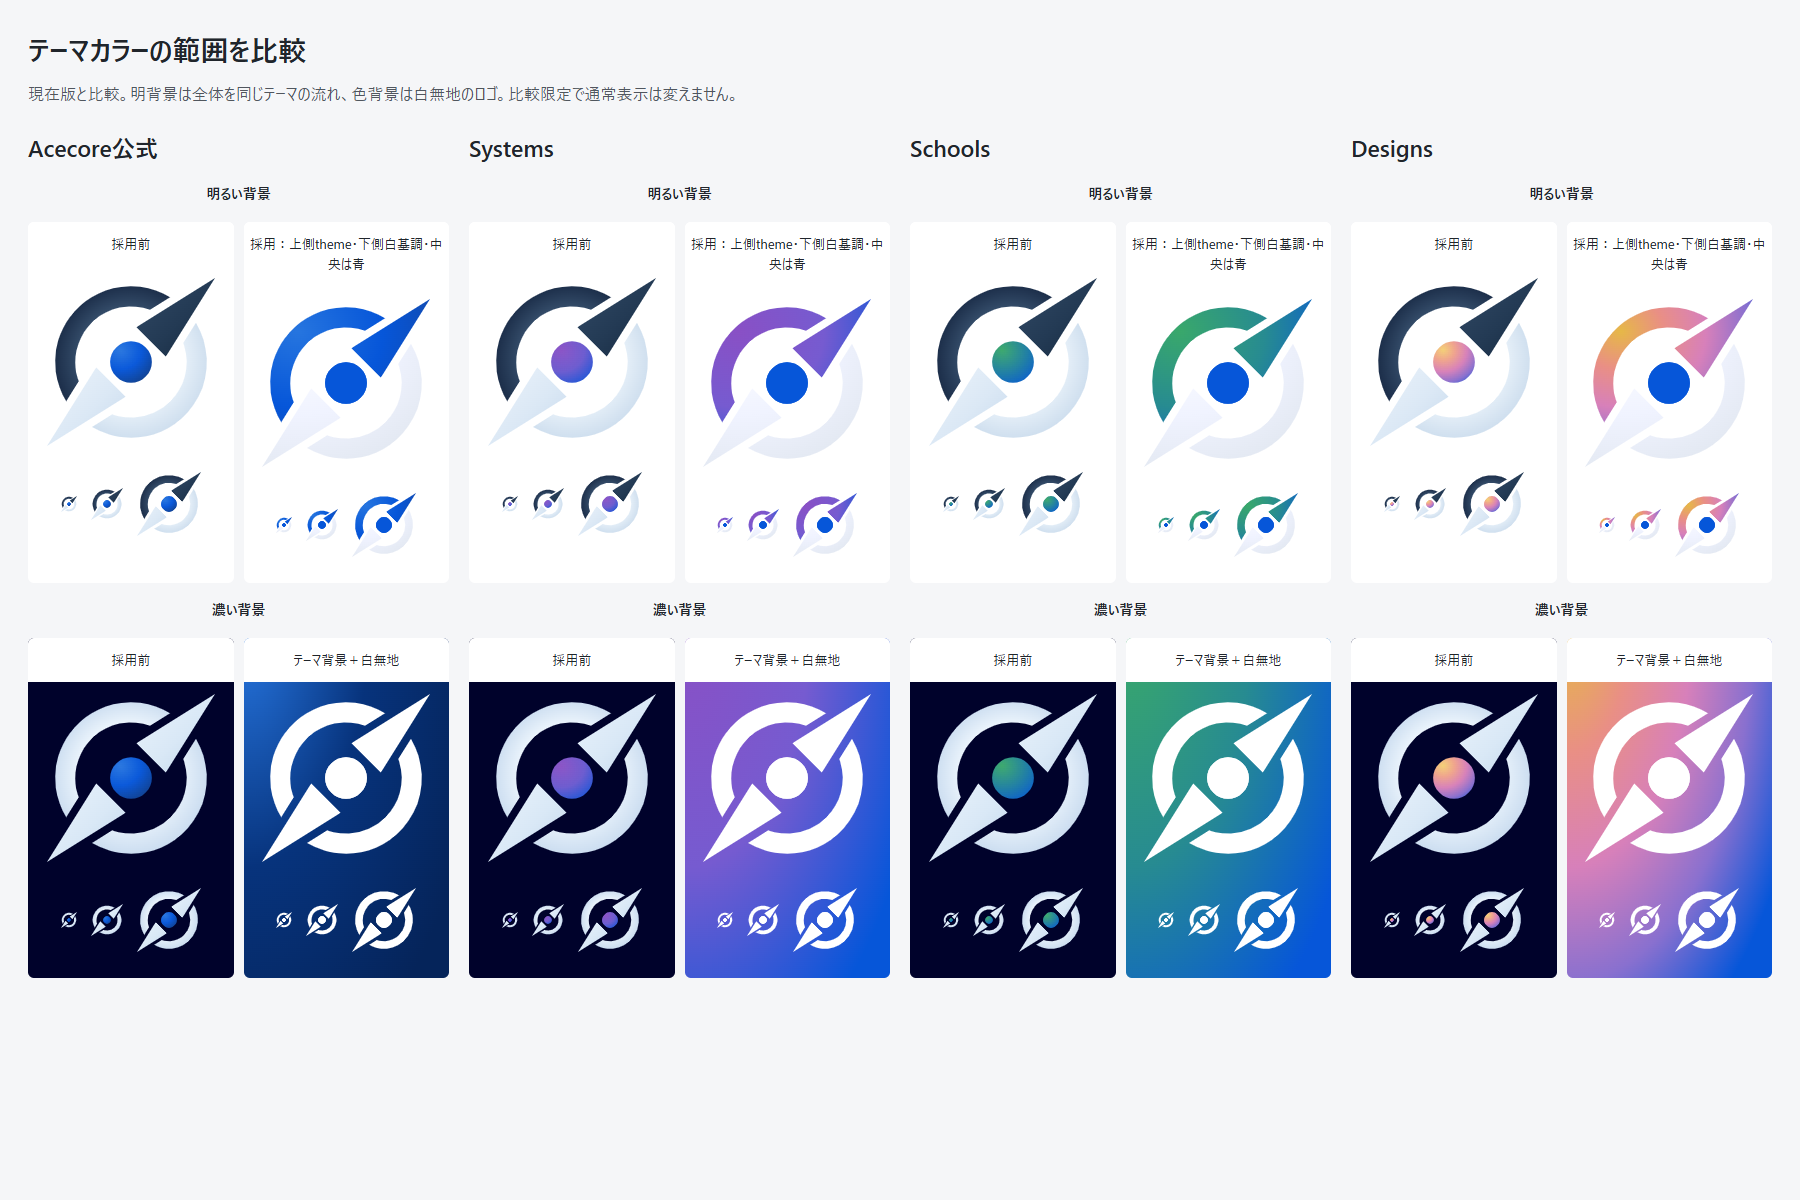
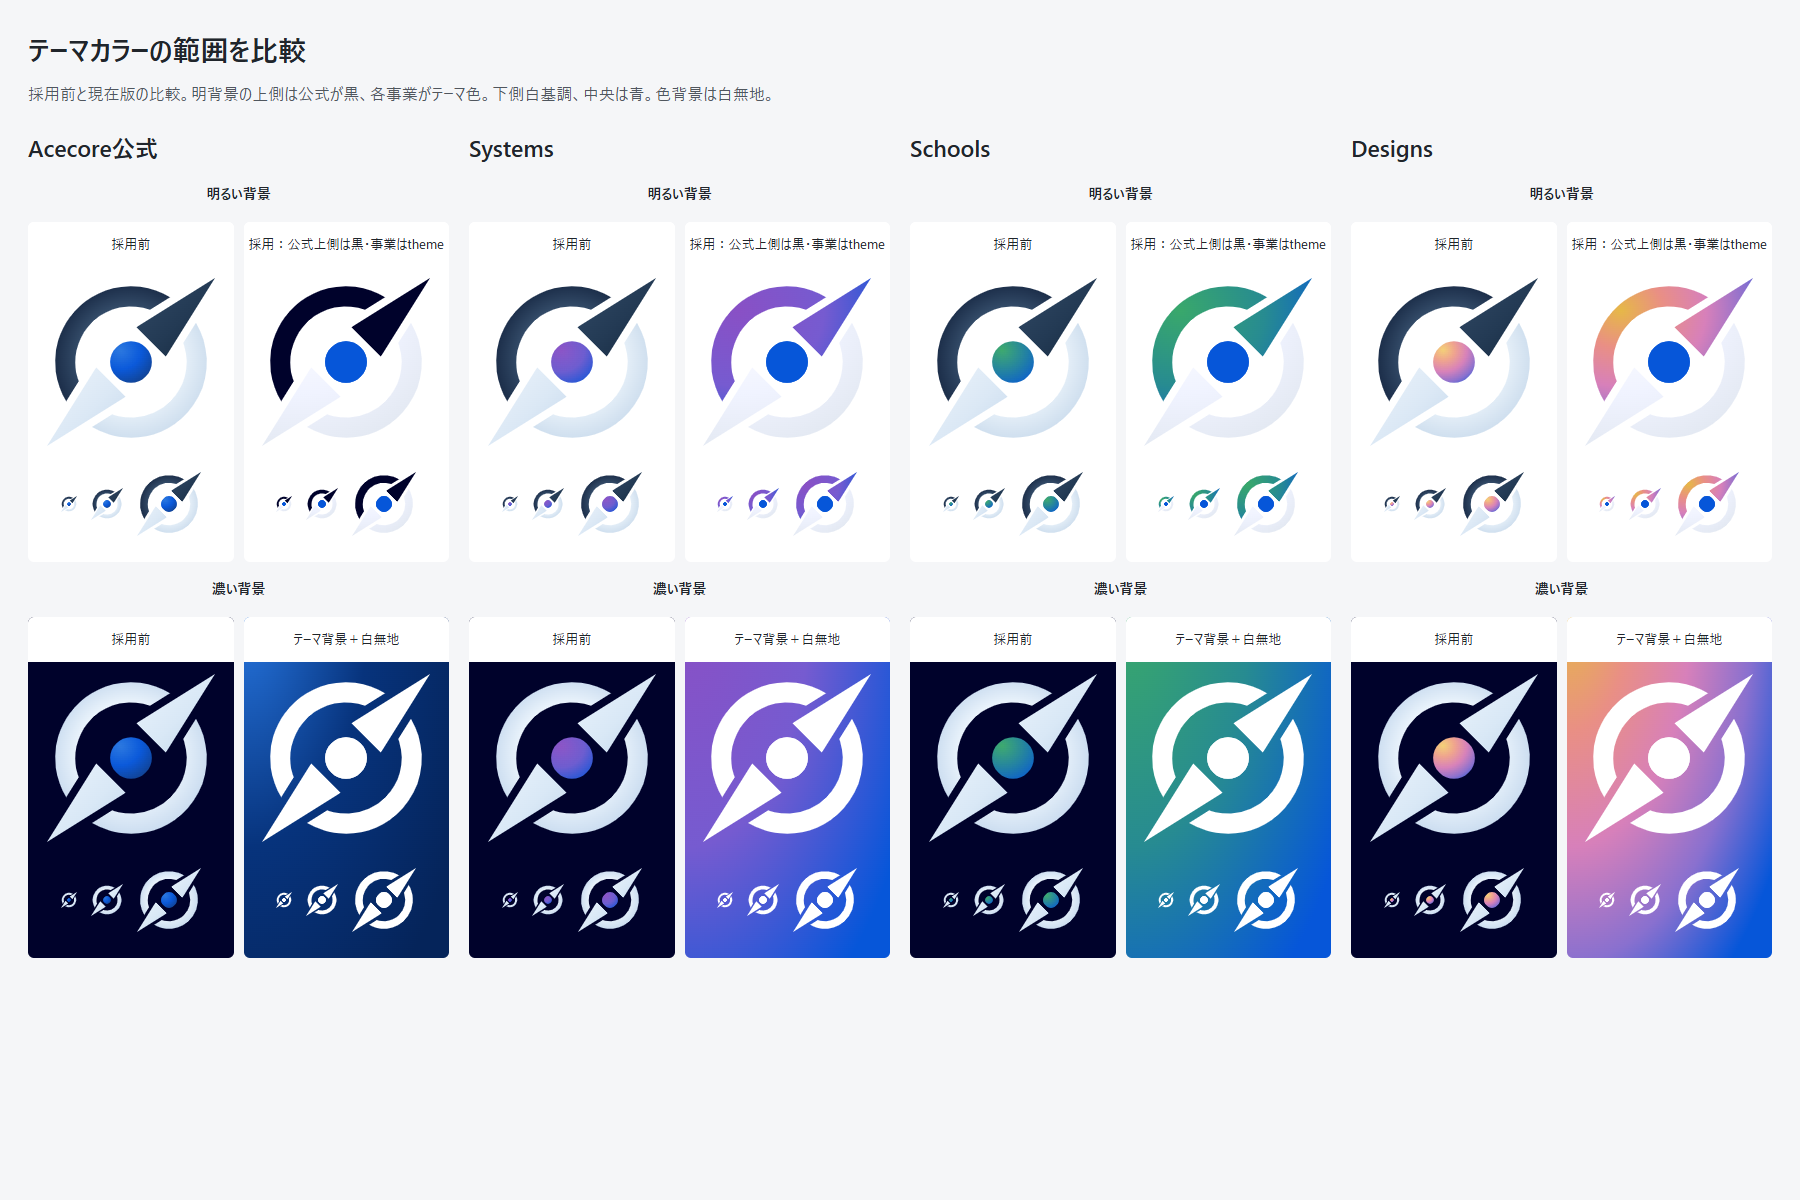
fix: 公式ロゴの上側の弧と矢印をブランド黒へ戻す

diff --git a/public/brand-preview.html b/public/brand-preview.html
@@ -735,10 +735,10 @@
       >
         <h2 id="theme-range-heading">採用したロゴと以前のロゴ</h2>
         <p>
-          サイト名を選ぶと、中央だけに色を使っていた以前のロゴと、採用した上側のテーマ色と下側の白基調・テーマ背景の白無地のロゴを見比べられます。
+          サイト名を選ぶと、中央だけに色を使っていた以前のロゴと、採用した現在のロゴを見比べられます。
         </p>
         <p>
-          上側のテーマ色と下側の白基調とテーマ背景の白無地のロゴを採用し、4サイトのプレビューへ反映しています。明背景の下側の弧と左下の矢印は白基調、中央は公式の青。濃い背景では全体を白無地にしています。文字はAcecoreの2つ目のcと子名の頭文字だけに色を使います。本番への反映前です。
+          明背景の上側の弧と右上矢印は公式が黒、各事業はテーマ色です。4サイトのプレビューへ反映しています。明背景の下側の弧と左下の矢印は白基調、中央は公式の青。濃い背景では全体を白無地にしています。文字はAcecoreの2つ目のcと子名の頭文字だけに色を使います。本番への反映前です。
         </p>
         <details
           data-theme="acecore"
@@ -764,7 +764,7 @@
               <img
                 class="large"
                 src="/brand-preview/acecore-whole-light.svg"
-                alt="Acecore 公式・全体をテーマカラーにした採用版・明るい背景"
+                alt="Acecore 公式・上側は黒、下側は白基調の採用版・明るい背景"
                 width="176"
                 height="176"
               />
@@ -942,13 +942,13 @@
           </div>
         </details>
         <a class="link" href="/brand-preview/whole-theme-comparison.png"
-          >上側のテーマ色と下側の白基調案の一覧画像を開く →</a
+          >採用ロゴの一覧画像を開く →</a
         >
       </section>
       <section class="changes" id="changes" aria-labelledby="changes-heading">
         <h2 id="changes-heading">以前の質感調整（履歴）</h2>
         <p>
-          上側のテーマ色と下側の白基調を採用する前の質感調整の履歴です。現在の採用版は上の一覧をご覧ください。
+          現在の配色を採用する前の質感調整の履歴です。現在の採用版は上の一覧をご覧ください。
         </p>
         <h3>明るい背景</h3>
         <div class="change-grid">

diff --git a/docs/03_詳細設計/参考画像/ブランドカラー承認見本.html b/docs/03_詳細設計/参考画像/ブランドカラー承認見本.html
@@ -7,7 +7,7 @@
     font: 16px/1.7 sans-serif;
   "
 >
-  旧見本（配色検討時の履歴）です。現在は明背景の上側theme・下側白基調と、テーマ背景の全白を採用し、中央は明背景で公式の青、濃い背景では外周と同じ白です。最新の基準はブランドガイドを参照してください。
+  旧見本（配色検討時の履歴）です。現在は明背景の上側は公式が黒/事業がtheme・下側白基調と、テーマ背景の全白を採用し、中央は明背景で公式の青、濃い背景では外周と同じ白です。最新の基準はブランドガイドを参照してください。
 </p>
 <div id="acecore-gray-colorful">
   <style>

diff --git a/src/styles/brand.css b/src/styles/brand.css
@@ -46,12 +46,7 @@
     color-mix(in srgb, var(--brand) 42%, #00022b) 100%,
     color-mix(in srgb, var(--brand) 22%, #00022b) 125%
   );
-  --logo-paint: radial-gradient(
-    ellipse 101.333% 90.667% at 21.333% 19.2%,
-    #2675df 0%,
-    #0656d9 50%,
-    #17459d 100%
-  );
+  --logo-paint: #00022b;
   --logo-pale-paint: radial-gradient(
     ellipse 101.333% 90.667% at 21.333% 19.2%,
     #ffffff 0%,

diff --git a/docs/03_詳細設計/07_ブランドカラーと球状グラデーション.md b/docs/03_詳細設計/07_ブランドカラーと球状グラデーション.md
@@ -1,11 +1,11 @@
 # ブランドカラーとロゴ
 
-2026-10-24、全体彩色の採用後、ユーザーが「ロゴの真ん中の丸は常に公式の青」、続いて文字は「Acecoreは真ん中のcだけ、子ページ名は頭文字だけ」と指定した。その後「濃い背景の時は真ん中無地でいい」と指定したため、中央は明背景で単色#0656d9、濃い/テーマ背景で外周と同じ白単色とする。wordmarkはAcecoreの2つ目のc（index3）だけ公式青、子名の頭文字だけ事業色を維持する。さらに明背景の下/右側の弧と左下の矢印を元の白基調へ戻すと指定した。中央常時blue、外周全面theme、文字全体を着色する旧規則を上書きする。本書はAcecore公式・Systems・Schools・Designsの現行基準。ファイル名は既存の参照先を保つため変更していない。
+2026-10-24、全体彩色の採用後、ユーザーが「ロゴの真ん中の丸は常に公式の青」、続いて文字は「Acecoreは真ん中のcだけ、子ページ名は頭文字だけ」と指定した。その後「濃い背景の時は真ん中無地でいい」と指定したため、中央は明背景で単色#0656d9、濃い/テーマ背景で外周と同じ白単色とする。wordmarkはAcecoreの2つ目のc（index3）だけ公式青、子名の頭文字だけ事業色を維持する。さらに明背景の下/右側の弧と左下の矢印を元の白基調へ戻し、公式だけ上/左の弧と右上矢印を元のブランド黒#00022bの単色にすると指定した。中央常時blue、外周全面theme、文字全体を着色する旧規則を上書きする。本書はAcecore公式・Systems・Schools・Designsの現行基準。ファイル名は既存の参照先を保つため変更していない。
 
 ## 正本と優先順位
 
 - 最新のユーザー指示、本書、採用SVG、各サイトの既存実装、過去の検討資料の順に判断する。UI・配色・ロゴの変更前に本書を読む。
-- 現行見本は`public/brand-preview.html`と採用SVG。[前段の比較](https://ce2e5901.acecore-net.pages.dev/brand-preview#theme-range)は履歴とする。明背景の上/左の弧と右上矢印はテーマ色、下/右の弧と左下矢印は白基調。色背景は全体を白無地とする。中央2描画pathは明背景で単色#0656d9、色背景で#ffffff。全4サイトの公開比較も採用仕様へ同期する。
+- 現行見本は`public/brand-preview.html`と採用SVG。[前段の比較](https://ce2e5901.acecore-net.pages.dev/brand-preview#theme-range)は履歴とする。明背景の上/左の弧と右上矢印は公式が黒#00022b、3事業がテーマ色、下/右の弧と左下矢印は白基調。色背景は全体を白無地とする。中央2描画pathは明背景で単色#0656d9、色背景で#ffffff。全4サイトの公開比較も採用仕様へ同期する。
 - 旧「中央を事業色や球状gradientにする」「背景を問わず中央blue」「外周全面theme」は失効した。旧承認HTMLと[中央・外周の質感調整記録](https://github.com/acecore-systems/acecore-net/blob/87ead70745fe040e5c2dd9af56c0e401d8cd47f0/docs/03_詳細設計/07_ブランドカラーと球状グラデーション.md)は履歴であり現行仕様ではない。
 - 06以前の配色表、単色テーマ、青8割/1割などの面積指定も現行仕様ではない。元画像・本文・機能を保全する記録は有効。
 
@@ -13,16 +13,16 @@
 
 ### 明るい背景
 
-outer-inkの2path（上/左の弧・右上矢印）は既存の有彩色radialを保持。outer-paleの2path（下/右の弧・左下矢印）は白基調へ戻し、中央2pathは単色#0656d9とする。白いハイライト、黒沈み、金属的な反射筋や折り目は加えない。左上から右下へ広く円弧状に色をつなぐ。
+outer-inkの2path（上/左の弧・右上矢印）は公式が元のブランド黒#00022bの単色、3事業は既存の有彩色radialを保持。公式ロゴの旧青gradientは使わず、UIの共通青は維持する。outer-paleの2path（下/右の弧・左下矢印）は白基調へ戻し、中央2pathは単色#0656d9とする。白いハイライト、黒沈み、金属的な反射筋や折り目は加えない。左上から右下へ広く円弧状に色をつなぐ。
 
 | サイト  | 色停止点                                                            |
 | ------- | ------------------------------------------------------------------- |
-| 公式    | 0% #2675df → 50% #0656d9 → 100% #17459d                             |
+| 公式    | 単色 #00022b（gradientなし）                                        |
 | Systems | 0% #8950c5 → 50% #765bd0 → 100% #0656d9                             |
 | Schools | 0% #39a86b → 50% #278b91 → 100% #0656d9                             |
 | Designs | 0% #e6b847 → 25% #e98f85 → 50% #d780ba → 75% #8970cf → 100% #0656d9 |
 
-SVGのviewBoxは375×374.999991。主radialはuserSpaceの起点80/72、半径380/340（gradientTransform: matrix(380 0 0 340 80 72)）。全path/clip座標・比率・余白を保持する。theme用--logo-paintと白基調用--logo-pale-paintは全ロゴ領域を基準に ellipse 101.333% 90.667% at 21.333% 19.2% へ同期する。themeは上表、paleは#ffffff 0% → 元色#f0f3ff 55% → #e1e7f0 100%。paleも同じ起点80/72・半径380/340で広い滑らかな陰影とし、白背景で輪郭が分かる程度に留める。旧--sphere-paintは廃止し、球だけの白光沢tokenを残さない。
+SVGのviewBoxは375×374.999991。主radialはuserSpaceの起点80/72、半径380/340（gradientTransform: matrix(380 0 0 340 80 72)）。全path/clip座標・比率・余白を保持する。公式の--logo-paintは単色#00022b。3事業のtheme用--logo-paintと白基調用--logo-pale-paintは全ロゴ領域を基準に ellipse 101.333% 90.667% at 21.333% 19.2% へ同期する。themeは上表、paleは#ffffff 0% → 元色#f0f3ff 55% → #e1e7f0 100%。paleも同じ起点80/72・半径380/340で広い滑らかな陰影とし、白背景で輪郭が分かる程度に留める。旧--sphere-paintは廃止し、球だけの白光沢tokenを残さない。
 
 ### テーマカラー背景
 
@@ -33,7 +33,7 @@ SVGのviewBoxは375×374.999991。主radialはuserSpaceの起点80/72、半径38
 ### 画像の選択とfavicon
 
 - 文書内imgは実背景で明示選択する。白いheader/footerは/logo.svg、テーマ背景は/logo-on-dark.svg。OSがdarkであることだけを理由に白いheaderのロゴを白くしない。
-- /favicon.svgは専用asset。明外観は上側theme・下側白基調・中央青、暗外観はテーマ背景rectと中央も含め全白のロゴへCSS mediaで切り替える。元の形状・余白を縮めず背景を追加する。375の正方形基準で背景radialは起点0/0、半径450/506.25。
+- /favicon.svgは専用asset。明外観は上側が公式の黒/3事業のtheme・下側白基調・中央青、暗外観はテーマ背景rectと中央も含め全白のロゴへCSS mediaで切り替える。元の形状・余白を縮めず背景を追加する。375の正方形基準で背景radialは起点0/0、半径450/506.25。
 - 文書内imgにadaptive faviconを流用せず、全白filterや白い四角の下地だけで代用しない。
 - 公式のコード生成OGは既存青背景の左側に白い読み面を設け、cだけ青いAcecore文字と明背景版ロゴを置く。Designsのコード生成OGも白読み面上なので、上側theme・下側白基調の明背景版を使う。文字・構図を保持しロゴと必要な背景だけ同期する。写真を使うSchools/SystemsのOGは差し替えない。
 
@@ -62,4 +62,4 @@ SVGのviewBoxは375×374.999991。主radialはuserSpaceの起点80/72、半径38
 
 Systems/Schools footerのimgに残っていたborder-radius:50%とpadding:4pxが対角の矢印先端を切っていた。円形クリップを除去して原SVGの形状を復元し、viewBox/path/clip/余白は変更しない。ロゴimgや祖先へ円形clip/maskを適用せず、通常viewportのoverflowだけでなく実寸の図形欠損も確認する。
 
-最新の背景別中央規則: --logo-centerは明背景用#0656d9、--logo-center-on-themeは濃背景用#ffffff。wordmarkのc/子頭文字、円形clip除去、写真・本文は変更しない。明背景OGは読み面・文字・構図を保持し、埋め込まれた採用ロゴの下側2pathだけ白基調へ同期する。
+最新の背景別中央規則: --logo-centerは明背景用#0656d9、--logo-center-on-themeは濃背景用#ffffff。wordmarkのc/子頭文字、円形clip除去、写真・本文は変更しない。明背景OGは読み面・文字・構図を保持し、埋め込まれた公式採用ロゴの上側2pathを黒、下側2pathを白基調へ同期する。
